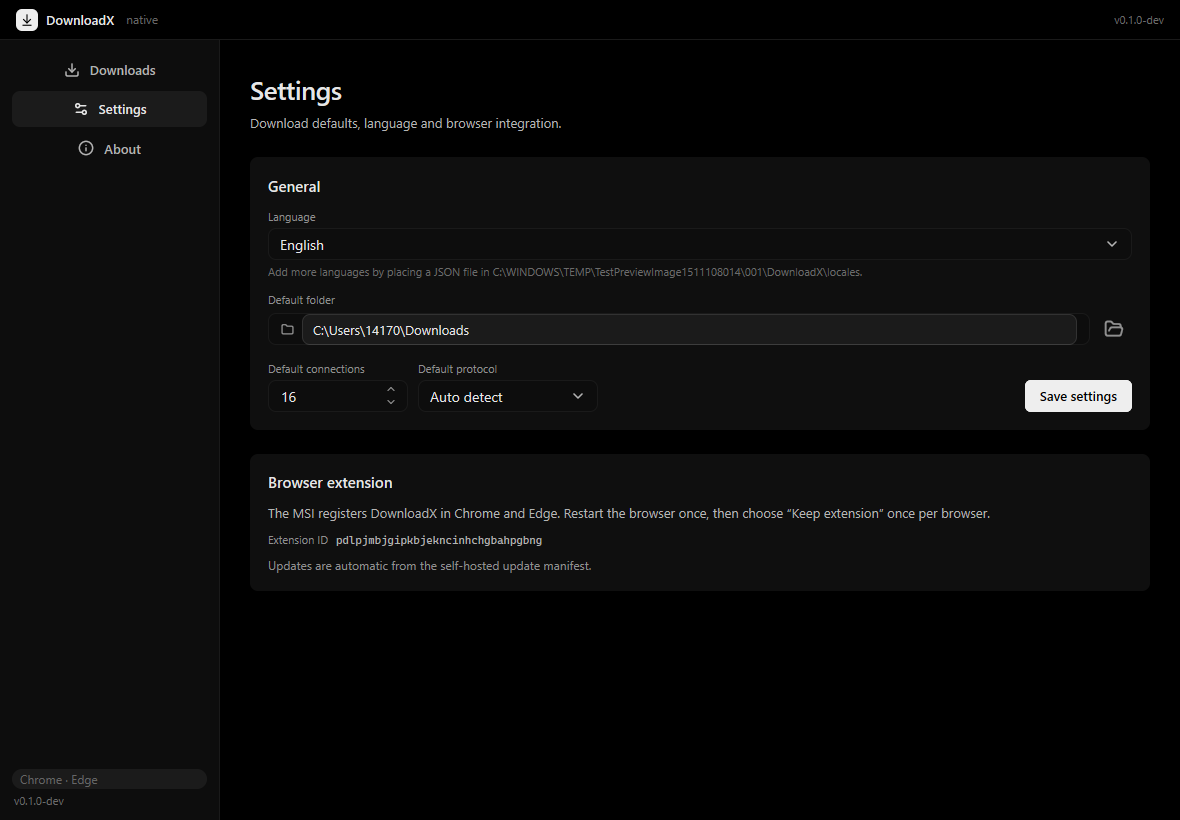
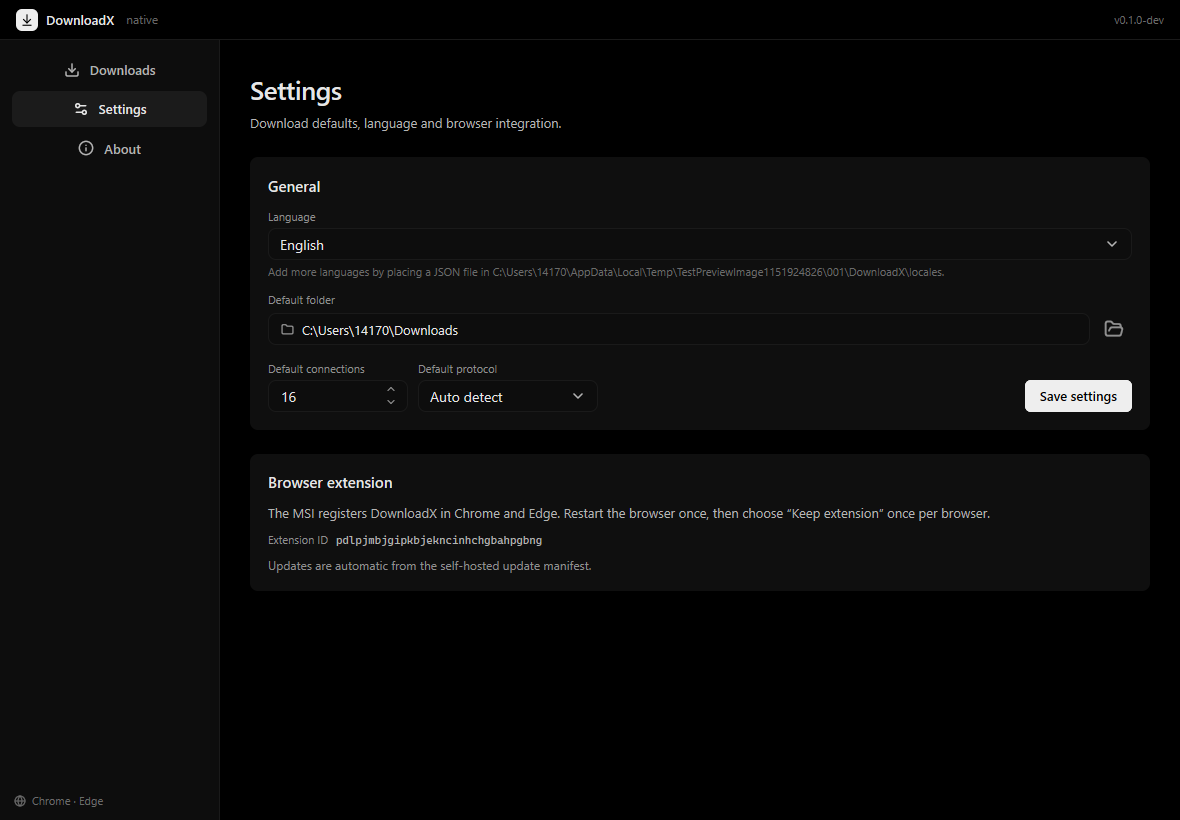
release: v1.0.0 with polished native UI and extension

Changed region(s): [[0.4271, 0.3049, 0.7932, 0.3354], [0.0, 0.9451, 0.0915, 1.0], [0.2441, 0.3963, 0.3966, 0.4268]]

diff --git a/internal/desktop/view.go b/internal/desktop/view.go
@@ -158,13 +158,10 @@ func (a *App) sidebar(c *ui.Context, tk *theme.Tokens) {
 		a.navItem(c, tk, pageSettings, lucide.Settings2(), a.t("nav.settings"))
 		a.navItem(c, tk, pageAbout, lucide.Info(), a.t("nav.about"))
 		ui.Spacer(c)
-		display.Tag(c, a.t("sidebar.extension"), display.TagProps{
-			Variant: display.TagFilled,
-			Color:   display.TagGray,
-			Size:    theme.Small,
-			Round:   true,
+		ui.Row(c).Gap(6).AlignItems(ui.Center).PaddingX(2).Children(func() {
+			ui.Icon(c, lucide.Globe()).FontSize(12).TextColor(tk.TextQuaternary)
+			ui.Text(c, a.t("sidebar.extension")).FontSize(11).TextColor(tk.TextQuaternary)
 		})
-		ui.Text(c, a.t("app.version", version.Version)).FontSize(11).TextColor(tk.TextQuaternary).PaddingX(2)
 	})
 }
 
@@ -351,7 +348,7 @@ func (a *App) jobCard(c *ui.Context, tk *theme.Tokens, j Job) {
 			})
 
 			ui.Column(c).Grow(1).Basis(0).MinWidth(0).Gap(4).Children(func() {
-				ui.Text(c, jobTitle(j)).FontSize(14).FontWeight(500).TextColor(tk.Text).SingleLine()
+				ui.Text(c, a.jobTitle(j)).FontSize(14).FontWeight(500).TextColor(tk.Text).SingleLine()
 				ui.Row(c).Gap(8).AlignItems(ui.Center).Children(func() {
 					display.Tag(c, a.statusLabel(j.Status), display.TagProps{
 						Variant: display.TagFilled,
@@ -509,7 +506,7 @@ func (a *App) settingsPage(c *ui.Context, tk *theme.Tokens) {
 				Size:    theme.Middle,
 			}).Clicked() {
 				if err := a.SaveSettings(); err != nil {
-					feedback.ShowToast(c, feedback.ToastProps{Type: feedback.ToastError, Title: a.t("toast.addFailed"), Description: err.Error()})
+					feedback.ShowToast(c, feedback.ToastProps{Type: feedback.ToastError, Title: a.t("toast.settingsFailed"), Description: err.Error()})
 				} else {
 					feedback.ShowToast(c, feedback.ToastProps{Type: feedback.ToastSuccess, Title: a.t("toast.settingsSaved")})
 				}
@@ -691,7 +688,7 @@ func jobTone(tk *theme.Tokens, j Job) (*ui.SVG, ui.Color, display.TagColor) {
 	}
 }
 
-func jobTitle(j Job) string {
+func (a *App) jobTitle(j Job) string {
 	if j.Path != "" {
 		return filepath.Base(j.Path)
 	}
@@ -699,7 +696,7 @@ func jobTitle(j Job) string {
 		return name
 	}
 	if strings.HasPrefix(strings.ToLower(j.URL), "magnet:") {
-		return "Magnet download"
+		return a.t("job.magnetTitle")
 	}
 	if info, err := os.Stat(j.URL); err == nil && !info.IsDir() {
 		return filepath.Base(j.URL)
@@ -806,8 +803,8 @@ func textField(c *ui.Context, tk *theme.Tokens, value *string, placeholder strin
 		if icon != nil {
 			ui.Icon(c, icon).FontSize(fontSize).TextColor(tk.TextTertiary).Shrink(0)
 		}
-		input = ui.TextInput(c, value).Grow(1).FocusRing(false).
-			Placeholder(placeholder).PlaceholderColor(tk.TextPlaceholder).FontSize(fontSize)
+		input = ui.TextInputBase(c, value).Grow(1).FocusRing(false).
+			Placeholder(placeholder).PlaceholderColor(tk.TextPlaceholder).FontSize(fontSize).TextColor(tk.Text)
 		if autoFocus {
 			input.AutoFocus()
 		}

diff --git a/AGENTS.md b/AGENTS.md
@@ -48,7 +48,7 @@ gofmt -w .
 go vet ./...
 go test ./...
 powershell -ExecutionPolicy Bypass -File scripts\build-extension.ps1   # if the extension changed
-powershell -ExecutionPolicy Bypass -File scripts\build-msi.ps1 -Version 0.3.0
+powershell -ExecutionPolicy Bypass -File scripts\build-msi.ps1 -Version 1.0.0
 ```
 
 Then install the MSI:
@@ -129,15 +129,15 @@ Follow `RELEASE.md` exactly. In short:
 
 ```powershell
 powershell -ExecutionPolicy Bypass -File scripts\build-extension.ps1
-powershell -ExecutionPolicy Bypass -File scripts\build-msi.ps1 -Version 0.3.0
-git add -A; git commit -m "release: v0.3.0"; git push origin main
-git tag -a v0.3.0 -m "DownloadX 0.3.0"; git push origin v0.3.0
-gh release create v0.3.0 `
+powershell -ExecutionPolicy Bypass -File scripts\build-msi.ps1 -Version 1.0.0
+git add -A; git commit -m "release: v1.0.0"; git push origin main
+git tag -a v1.0.0 -m "DownloadX 1.0.0"; git push origin v1.0.0
+gh release create v1.0.0 `
   dist\DownloadX-windows-amd64.msi `
   dist\DownloadX-windows-amd64.msi.sha256 `
   dist\DownloadX-extension.crx `
   dist\DownloadX-extension.crx.sha256 `
-  --title "DownloadX 0.3.0" --notes "..."
+  --title "DownloadX 1.0.0" --notes "..."
 ```
 
 Then verify that

diff --git a/RELEASE.md b/RELEASE.md
@@ -47,7 +47,7 @@ tagging; browsers update from that copy.
 Pick the version without a leading `v`:
 
 ```powershell
-powershell -ExecutionPolicy Bypass -File scripts\build-msi.ps1 -Version 0.3.0
+powershell -ExecutionPolicy Bypass -File scripts\build-msi.ps1 -Version 1.0.0
 ```
 
 This produces:
@@ -86,21 +86,21 @@ Uninstall from **Settings → Apps → DownloadX**, or find the product code und
 
 ```powershell
 git add -A
-git commit -m "release: v0.3.0"
+git commit -m "release: v1.0.0"
 git push origin main
-git tag -a v0.3.0 -m "DownloadX 0.3.0"
-git push origin v0.3.0
+git tag -a v1.0.0 -m "DownloadX 1.0.0"
+git push origin v1.0.0
 ```
 
 ## 6. Create the GitHub release
 
 ```powershell
-gh release create v0.3.0 `
+gh release create v1.0.0 `
   dist\DownloadX-windows-amd64.msi `
   dist\DownloadX-windows-amd64.msi.sha256 `
   dist\DownloadX-extension.crx `
   dist\DownloadX-extension.crx.sha256 `
-  --title "DownloadX 0.3.0" `
+  --title "DownloadX 1.0.0" `
   --notes "Windows x64 installer, Chrome/Edge extension, segmented HTTP/FTP, HLS, DASH, BitTorrent, and the native MyGo + Lobe UI desktop app."
 ```
 

diff --git a/README.md b/README.md
@@ -278,10 +278,10 @@ There is no CI/CD. Tags and GitHub releases are created by hand. See
 
 ```powershell
 powershell -ExecutionPolicy Bypass -File scripts\build-extension.ps1
-powershell -ExecutionPolicy Bypass -File scripts\build-msi.ps1 -Version 0.3.0
-git tag -a v0.3.0 -m "DownloadX 0.3.0"
-git push origin v0.3.0
-gh release create v0.3.0 dist\DownloadX-windows-amd64.msi dist\DownloadX-windows-amd64.msi.sha256 dist\DownloadX-extension.crx dist\DownloadX-extension.crx.sha256
+powershell -ExecutionPolicy Bypass -File scripts\build-msi.ps1 -Version 1.0.0
+git tag -a v1.0.0 -m "DownloadX 1.0.0"
+git push origin v1.0.0
+gh release create v1.0.0 dist\DownloadX-windows-amd64.msi dist\DownloadX-windows-amd64.msi.sha256 dist\DownloadX-extension.crx dist\DownloadX-extension.crx.sha256
 ```
 
 The build scripts produce `dist\DownloadX-windows-amd64.msi` and
